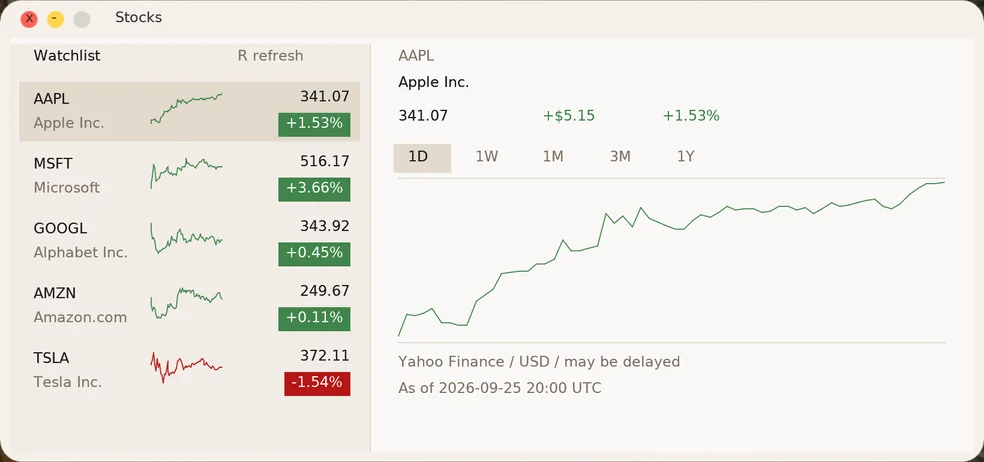
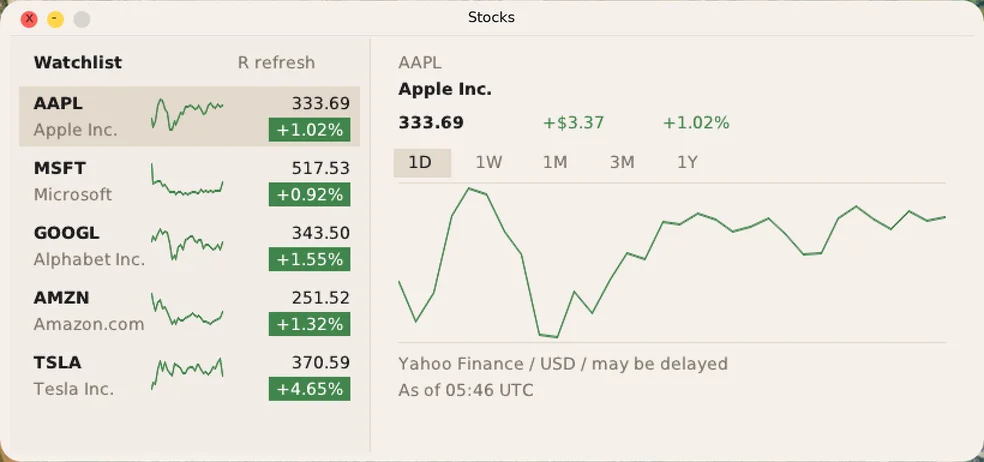
2.6.31: Stocks fills all five watchlist rows again, status line says Retrying or Offline (#403)
The app read STOCKS.TXT with one jt_read (255 bytes a call), so only the AAPL row loaded.
Now reads the whole file via jt_readfile. New ring3stocks-list-check.py (stub Worker, full-size reply) fails on the old app, passes on the fix.

Claude-Session: https://claude.ai/code/session_01SvdEcbUfEQT8e6kxVkpqPk

diff --git a/landing/index.html b/landing/index.html
@@ -574,7 +574,7 @@
 <section class="facts reveal" aria-label="Joshua Tree by the numbers">
   <div class="facts-row two">
     <div class="fact"><strong><span data-fact="apps">26</span></strong><span class="label">Apps</span></div>
-    <div class="fact"><strong>v<span data-fact="version">2.6.30</span></strong><span class="label">Version</span></div>
+    <div class="fact"><strong>v<span data-fact="version">2.6.31</span></strong><span class="label">Version</span></div>
   </div>
   <div class="boot-cta">
     <a class="boot-btn" href="https://github.com/nulljosh/joshuatree/releases">Download for a USB stick</a>
@@ -810,7 +810,7 @@
     </div>
   </nav>
   <div class="foot-bar">
-    <p class="foot-meta">Joshua Tree v<span data-fact="version">2.6.30</span> &middot; Apache License 2.0 &middot; &copy; 2026 Joshua Trommel &middot; Made with <span class="heart">&hearts;</span> in Vancouver, BC</p>
+    <p class="foot-meta">Joshua Tree v<span data-fact="version">2.6.31</span> &middot; Apache License 2.0 &middot; &copy; 2026 Joshua Trommel &middot; Made with <span class="heart">&hearts;</span> in Vancouver, BC</p>
   </div>
 </footer>
 

diff --git a/tools/checks/ring3stocks-list-check.py b/tools/checks/ring3stocks-list-check.py
@@ -1,0 +1,122 @@
+#!/usr/bin/env python3
+"""Headless proof that every Stocks watchlist row fills, not just the first.
+
+Bug: the ring-3 app read STOCKS.TXT with one jt_read, which moves 255 bytes a
+call, so it saw only the AAPL row and showed "--" for the rest. This check
+boots kernel.elf with -display none and a local stub Worker (stkhost= boot
+flag), so CI never touches the live site. The stub serves a real-size
+/api/stocks body (3.2KB, 8 rows, 64 points each, captured once into
+stocks-fixture-range0.txt) and the 25-row /api/quotes list. The kernel fetches
+and writes STOCKS.TXT, the ring-3 app draws, and the check pmemsaves the
+framebuffer and requires a sparkline and a colored pill on all five visible
+rows. It also reads the status line area: with data it must not say Offline.
+
+Usage: tools/checks/ring3stocks-list-check.py   (from the repo root, after make kernel.elf)
+"""
+import http.server, json, os, socket, subprocess, sys, threading, time
+from PIL import Image
+from freeport import free_port
+
+LOG = "/tmp/jt-stockslist-serial.log"
+DUMP = "/tmp/jt-stockslist.raw"
+FB = 0xfd000000; W, H = 1920, 1080
+PORT = free_port()
+LOGICAL_W, LOGICAL_H, SCALE = 960, 540, 2
+DOCK_ICON, DOCK_GAP, SLOT0_X = 37, 6, 247
+PITCH = DOCK_ICON + DOCK_GAP
+ICON_ROW_Y = 487
+STOCKS_SLOT = 9
+
+os.chdir(os.path.join(os.path.dirname(os.path.abspath(__file__)), "..", ".."))
+for f in (LOG, DUMP):
+    try: os.remove(f)
+    except FileNotFoundError: pass
+
+ROOT = os.getcwd()
+BODY = open("tools/checks/stocks-fixture-range0.txt", "rb").read()
+QUOTES = open("tools/checks/stocks-fixture-quotes25.txt", "rb").read()
+class Hd(http.server.BaseHTTPRequestHandler):
+    def log_message(self, *a): pass
+    def do_GET(self):
+        body = QUOTES if self.path.startswith("/api/quotes") else BODY
+        self.send_response(200); self.send_header("Content-Type", "text/plain")
+        self.send_header("Content-Length", str(len(body))); self.end_headers(); self.wfile.write(body)
+srv = http.server.ThreadingHTTPServer(("0.0.0.0", 0), Hd); srv.daemon_threads = True
+threading.Thread(target=srv.serve_forever, daemon=True).start()
+
+q = subprocess.Popen(["qemu-system-i386", "-kernel", "kernel.elf", "-display", "none", "-vga", "std",
+                      "-net", "nic,model=rtl8139", "-net", "user",
+                      "-append", "stkhost=10.0.2.2:%d" % srv.server_address[1],
+                      "-qmp", f"tcp:127.0.0.1:{PORT},server,nowait", "-serial", "file:" + LOG],
+                     stdout=subprocess.DEVNULL, stderr=subprocess.DEVNULL)
+try:
+    s = None
+    for _ in range(50):
+        time.sleep(0.2)
+        try: s = socket.create_connection(("127.0.0.1", PORT)); break
+        except OSError: pass
+    if s is None: raise SystemExit("FAIL: QEMU's QMP socket never came up")
+    f = s.makefile("rw")
+    def cmd(o):
+        f.write(json.dumps(o) + "\n"); f.flush()
+        while True:
+            r = json.loads(f.readline())
+            if "return" in r or "error" in r: return r
+    f.readline()
+    cmd({"execute": "qmp_capabilities"})
+    def serial_has(needle): return needle in open(LOG, errors="replace").read()
+    for _ in range(400):   # the kernel says when the desktop is up; a slow runner takes longer than a fixed sleep
+        time.sleep(0.1)
+        if serial_has("guidesktop"): break
+    time.sleep(1.0)
+
+    def move(x, y):
+        cmd({"execute": "input-send-event", "arguments": {"events": [
+            {"type": "abs", "data": {"axis": "x", "value": int(x * 32768 / LOGICAL_W)}},
+            {"type": "abs", "data": {"axis": "y", "value": int(y * 32768 / LOGICAL_H)}}]}})
+    def click():
+        cmd({"execute": "input-send-event", "arguments": {"events": [{"type": "btn", "data": {"down": True, "button": "left"}}]}})
+        time.sleep(0.1)
+        cmd({"execute": "input-send-event", "arguments": {"events": [{"type": "btn", "data": {"down": False, "button": "left"}}]}})
+    def key(qcode):
+        cmd({"execute": "send-key", "arguments": {"keys": [{"type": "qcode", "data": qcode}]}})
+
+    centre = lambda slot: SLOT0_X + slot * PITCH + DOCK_ICON // 2
+
+    # Open Stocks from the dock (no network needed: it opens with empty data).
+    for attempt in range(4):   # a click can land before the dock is ready: look for the launch in the kernel log, click again if it is not there
+        move(centre(STOCKS_SLOT), ICON_ROW_Y); time.sleep(0.4)
+        click()
+        for _ in range(100):
+            time.sleep(0.1)
+            if serial_has("launching STOCKS.BIN"): break
+        if serial_has("launching STOCKS.BIN"): break
+    time.sleep(6.0)  # fetch from the fake server, STOCKS.TXT, ring-3 window draws
+
+    cmd({"execute": "pmemsave", "arguments": {"val": FB, "size": W * H * 4, "filename": DUMP}})
+    try: cmd({"execute": "quit"})
+    except (ConnectionResetError, BrokenPipeError, OSError): pass
+finally:
+    try: q.wait(timeout=5)
+    except subprocess.TimeoutExpired: q.kill()
+
+img = Image.frombytes("RGBA", (W, H), open(DUMP, "rb").read(), "raw", "BGRA").convert("RGB")
+
+px = img.load()
+GREEN = (0x41, 0x85, 0x4B); RED = (0xB5, 0x16, 0x16)
+def near(p, c, tol=10): return max(abs(p[i] - c[i]) for i in range(3)) <= tol
+
+# Sidebar rows (physical px): the window sits at a fixed spot, row 0 starts at y=225, pitch 108,
+# sparkline and price pill live in x 380..740. A filled row has hundreds of green or red pixels.
+bad = []
+for r in range(5):
+    y0 = 225 + 108 * r
+    n = sum(1 for y in range(y0, y0 + 100) for x in range(380, 740)
+            if near(px[x, y], GREEN) or near(px[x, y], RED))
+    print(f"row {r}: {n} colored pixels")
+    if n < 150: bad.append(r)
+if bad:
+    print(f"FAIL: watchlist rows {bad} show no price/sparkline (the app read only part of STOCKS.TXT)")
+    sys.exit(1)
+print("PASS: all five watchlist rows show a sparkline and a price pill")
+sys.exit(0)

diff --git a/user/stocks.c b/user/stocks.c
@@ -48,8 +48,8 @@ static int num(const char **p) {
 }
 static void eol(const char **p) { while (**p && **p != '\n') (*p)++; if (**p) (*p)++; }
 static void load(void) {
-    int fd = jt_open("STOCKS.TXT", JT_O_RDONLY), n = fd < 0 ? 0 : jt_read(fd, file, sizeof file - 1);
-    if (fd >= 0) jt_close(fd);
+    /* jt_read moves 255 bytes a call, so one read only ever saw the first row (AAPL). Take the whole file. */
+    int n = jt_readfile("STOCKS.TXT", file, sizeof file - 1);
     file[n < 0 ? 0 : n] = 0;
     const char *p = file;
     if (*p != 'r') return;
@@ -183,11 +183,18 @@ static void draw(int fetching) {
     chart(px, cy0, pw, ch, pts[sel], n, col);
     rect(px, cy0 + ch + 4, pw, 1, RULE);
     int sy = cy0 + ch + 14;
-    text(n ? (stale[sel] ? "Stale quote. R to retry." : "Yahoo Finance / USD / may be delayed") : "R to retry. Quote service unavailable.", px, sy, MUTED, 0);
-    if (n) { /* provider time as hh:mm UTC */
-        int hr = stamp[sel] / 3600 % 24, mi = stamp[sel] / 60 % 60, p = cat(b, 0, "As of ");
-        b[p++] = (char)('0' + hr / 10); b[p++] = (char)('0' + hr % 10); b[p++] = ':'; b[p++] = (char)('0' + mi / 10); b[p++] = (char)('0' + mi % 10); b[p] = 0;
-        cat(b, p, " UTC");
+    /* The status line only says what is on screen: fresh quotes, old quotes with their time, or offline. */
+    int hr = stamp[sel] / 3600 % 24, mi = stamp[sel] / 60 % 60;
+    char when[24]; int wp = 0;
+    when[wp++] = (char)('0' + hr / 10); when[wp++] = (char)('0' + hr % 10); when[wp++] = ':';
+    when[wp++] = (char)('0' + mi / 10); when[wp++] = (char)('0' + mi % 10); when[wp] = 0;
+    cat(when, wp, " UTC");
+    if (fetching) text("Retrying...", px, sy, MUTED, 0);
+    else if (!n || stale[sel]) text("Offline. R to retry.", px, sy, MUTED, 0);
+    else text("Yahoo Finance / USD / may be delayed", px, sy, MUTED, 0);
+    if (n && !fetching) {
+        int p = cat(b, 0, stale[sel] ? "Last quote " : "As of ");
+        cat(b, p, when);
         text(b, px, sy + 22, MUTED, 0);
     }
 }

diff --git a/docs/ARCHITECTURE.md b/docs/ARCHITECTURE.md
@@ -122,7 +122,7 @@ Each layer only leans on the ones above it on this page, so it reads top to bott
 | `user/burrow.c` | Burrow, the Files app, as a ring-3 program: a List and Icons toolbar, folders first, arrows to move, Enter to open a folder, Backspace to go up, Esc to close. It keeps its own folder path and lists it through `SYS_READDIR`. |
 | `user/epiphany.c` | Epiphany, the markets terminal (a 40-ticker watchlist, portfolio, trading simulator, macro brief and the `/` command bar for `AAPL GP` and `AAPL DES`), as a ring-3 program: the nineteenth app out of the kernel (1.9.19). Prices come through `SYS_HTTP_GET` from `/api/quotes` (about 700 bytes, inside the 2 KB body), with the compiled-in prices when the fetch fails. The GP chart draws previous close to last price, because the intraday series lives in the kernel's Stocks and does not fit the syscall body. `tools/checks/ring3epiphany-check.py` drives it. |
 | `user/weather.c` | Weather, the current reading and a five-day forecast, as a ring-3 program: the twentieth app out of the kernel (1.9.22). The kernel's `weather_fetch` still does the network work and writes `WEATHER.TXT` after every fetch; the app reads it with plain file calls and shows the live reading, the last good one or labelled sample data. It is a real compositor window: R draws Fetching and calls `SYS_REFRESH` (398), the desktop loop refetches outside the gate, and the app reloads when `jt_sysinfo.data_stamp` moves. `tools/checks/ring3weather-check.py` drives it, `tools/checks/weather-app-check.sh` covers the live, stale, bad, timeout and offline faces. |
-| `user/stocks.c` | Stocks, the watchlist sidebar with sparklines and a five-range line chart, as a ring-3 program: the twenty-first app out of the kernel. The kernel's `stocks_fetch` still does the network work and writes `STOCKS.TXT` after every fetch; the app reads it with plain file calls. Arrow keys and clicks pick a symbol, a range change or R calls `SYS_REFRESH` (398) with `range | sel << 8`, the desktop loop refetches, and the window reloads when `data_stamp` moves. It is a real compositor window; Esc or a crash returns to the desktop. |
+| `user/stocks.c` | Stocks, the watchlist sidebar with sparklines and a five-range line chart, as a ring-3 program: the twenty-first app out of the kernel. The kernel's `stocks_fetch` still does the network work and writes `STOCKS.TXT` after every fetch; the app reads the whole file with `jt_readfile` (one `jt_read` moves only 255 bytes). Arrow keys and clicks pick a symbol, a range change or R calls `SYS_REFRESH` (398) with `range | sel << 8`, the desktop loop refetches, and the window reloads when `data_stamp` moves. It is a real compositor window; Esc or a crash returns to the desktop. |
 | `user/portfolio.c` | Portfolio, Joshua's About block and the fleet catalog grouped Life, Read, Make, Play and Dev, as a ring-3 program: the eleventh app out of the kernel (1.9.5). Same rows as the old in-kernel copy, up/down or the wheel skip the group headers, a click selects, and the bottom line shows the selected app's address. Backquote is the deliberate crash `tools/checks/ring3portfolio-check.py` can press. |
 | `drivers/user_activity.h`, `user_calendar.h`, `user_clock.h`, `user_curbfind.h`, `user_epiphany.h`, `user_search.h`, `user_contacts.h`, `user_fieldbook.h`, `user_tonchi.h`, `user_portfolio.h`, `user_reminders.h`, `user_hikko.h` | The compiled bytes of those ring-3 apps, embedded in the kernel so it can start them. Generated by `tools/gen/gen_user_bin.py` on every build, ignored by git, never edited by hand. |
 | `drivers/user_brkpoke.h`, `user_burrow.h`, `user_calculator.h`, `user_keyrate.h`, `user_mail.h`, `user_movies.h`, `user_music.h`, `user_notes.h`, `user_samantha.h`, `user_stocks.h`, `user_terminal.h`, `user_weather.h` | The same, for the rest of the ring-3 apps and the break-on-purpose test program: compiled bytes embedded in the kernel, generated by `tools/gen/gen_user_bin.py` on every build, ignored by git, never edited by hand. |

diff --git a/docs/roadmap.md b/docs/roadmap.md
@@ -49,6 +49,7 @@ Curbfind, Epiphany and Stocks already pull live data through `SYS_HTTP_GET`. The
 - [x] [Sonnet] Lexly, done 2.6.27: a course picker with 72 live courses and a four-choice drill with a score, from the real Lexly course packs through the Worker's `/api/lexly` and `SYS_HTTP_GET`; the Spanish deck stays as the offline fallback. Courses in scripts the font cannot draw (Japanese, Chinese, Korean, Russian, Arabic and more) and the short math courses are left out. Check: `tools/checks/ring3tonchi-live-check.py`.
 - [x] [Sonnet] Hikko, done 2.6.29: Sparkjar is renamed Hikko inside the OS (files, window, dock, Apps folder, checks; Samantha still opens it as "sparkjar" or "hotaru"). It shows the real forum's top twelve ideas (title, votes, text, plan) from the public post feed through the Worker's `/api/hikko` and `SYS_HTTP_GET`; the ten demo ideas stay as the offline fallback. Voting stays local: the real forum needs an account to vote. Check: `tools/checks/ring3hikko-live-check.py`.
 - [x] [Sonnet] Names, done 2.6.30: Lexly is Tonchi inside the OS (files, window, dock, Apps folder, checks, landing, Worker comments), the Portfolio catalog says Brick, Notate and Hagaki and adds Madobe and Plank. Samantha still opens Tonchi as "lexly". Tonchi keeps `lexly.heyitsmejosh.com` until `tonchi.` exists. Check: `tools/checks/burrow-rename-check.py` fails if an old name returns to the catalog or an alias stops working.
+- [x] [Sonnet] Stocks showed a price for AAPL and "--" for the other four rows, done 2.6.31. The app read its data file with one `jt_read`, which moves 255 bytes a call, so it saw only the first row. It now reads the whole file, and the status line says Retrying or Offline instead of stale text. Check: `tools/checks/ring3stocks-list-check.py` (fails on the old app, passes now).
 
 ### Voice chat, lag and sharing (Joshua, 2026-10-04)
 Checked 2026-10-04: neither side listens yet. Both are typed text in, her voice out, so "voice chat" still needs speech-to-text. Each message in the OS is three round trips in a row: `/api/pick` (which tool), `/api/chat` (the full reply, no streaming), then `/api/speak` per sentence piece. Order: measure, cut round trips, stream, then listen.

diff --git a/docs/TESTING.md b/docs/TESTING.md
@@ -5,7 +5,7 @@ Generated by `tools/gen/testing-doc.py` from `tools/checks/ci-suite.sh`; don't e
 
 Run it all locally with `tools/ci-local.sh`. Run one with the command in the table.
 
-## The suite (167 checks)
+## The suite (168 checks)
 
 | What it proves | File | Mode |
 |---|---|---|
@@ -137,6 +137,7 @@ Run it all locally with `tools/ci-local.sh`. Run one with the command in the tab
 | RTC local-time shift math (v86's CMOS answers in UTC) | `tools/checks/rtc-timezone-check.mjs` | once |
 | Stocks opens without a supported network card | `tools/checks/stocks-dock-check.py` | retry |
 | Stocks chart line is antialiased (coverage blend, no stair-stepping) | `tools/checks/stocks-aa-check.py` | retry |
+| Stocks fills all five watchlist rows from a full-size stub Worker reply (fails if the app reads only part of STOCKS.TXT) | `tools/checks/ring3stocks-list-check.py` | retry |
 | Stocks live quotes and kernel parsing | `tools/checks/stocks-live-check.mjs` | once |
 | Epiphany command bar: AAPL GP draws the chart, an unknown code errors cleanly | `tools/checks/epiphany-cmdbar-check.py` | retry |
 | Worker /api/proxy allowlist | `tools/checks/worker-proxy-check.mjs` | once |
@@ -201,7 +202,7 @@ Run it all locally with `tools/ci-local.sh`. Run one with the command in the tab
 | Fieldbook | `tools/checks/ring3fieldbook-check.py` |
 | Contacts | `tools/checks/ring3contacts-check.py` |
 | Calculator | `tools/checks/ring3calc-check.py` |
-| Stocks | `tools/checks/stocks-aa-check.py`, `tools/checks/stocks-dock-check.py`, `tools/checks/stocks-live-check.mjs` |
+| Stocks | `tools/checks/ring3stocks-list-check.py`, `tools/checks/stocks-aa-check.py`, `tools/checks/stocks-dock-check.py`, `tools/checks/stocks-live-check.mjs` |
 | Search | `tools/checks/ring3search-check.py` |
 | Epiphany | `tools/checks/epiphany-cmdbar-check.py`, `tools/checks/portfolio-slowframes-check.mjs`, `tools/checks/ring3epiphany-check.py` |
 | Portfolio | `tools/checks/portfolio-check.py`, `tools/checks/portfolio-mute-check.mjs`, `tools/checks/portfolio-slowframes-check.mjs`, `tools/checks/ring3portfolio-check.py` |

diff --git a/docs/VERSIONS.md b/docs/VERSIONS.md
@@ -72,6 +72,7 @@ Where this goes, one major version at a time. Up to 10 it's a plan: each version
   - 2.6.28: The landing shows tiles for Bookrank, Lexly, Curbfind and Epiphany, and a check fails when an app changes and its tile is not retaken. The built app binaries are no longer tracked in git.
   - 2.6.29: Sparkjar is now Hikko inside the OS, and it shows the real forum's top twelve ideas (title, votes, text, plan) through the Worker and SYS_HTTP_GET. The ten demo ideas stay as the offline fallback, votes stay on this machine, and Samantha still opens it when you say Sparkjar or Hotaru.
   - 2.6.30: every app name inside the OS follows the fleet. Lexly is Tonchi (Samantha still opens it as "lexly"), the Portfolio catalog says Brick, Notate and Hagaki, and it gains Madobe and Plank. Tonchi keeps its old web address until the new one exists.
+  - 2.6.31: Stocks shows all five watchlist rows with their price and sparkline again. The app read only the first 255 bytes of its data file, so only AAPL filled. It now reads the whole file, and the status line says Retrying or Offline instead of stale text.
 - 3.0: It boots a real computer. One reference mini PC: UEFI, USB keyboard, mouse and stick, a real disk, a real network card, real sound.
 - 3.1: The Strata Kit ships. The $199 case and OS stick for the 3.0 board, bring your own parts (MONEY.md has the math).
 - 4.0: True multitasking. A compositor, many windows, resize and minimize, apps that never freeze each other.
